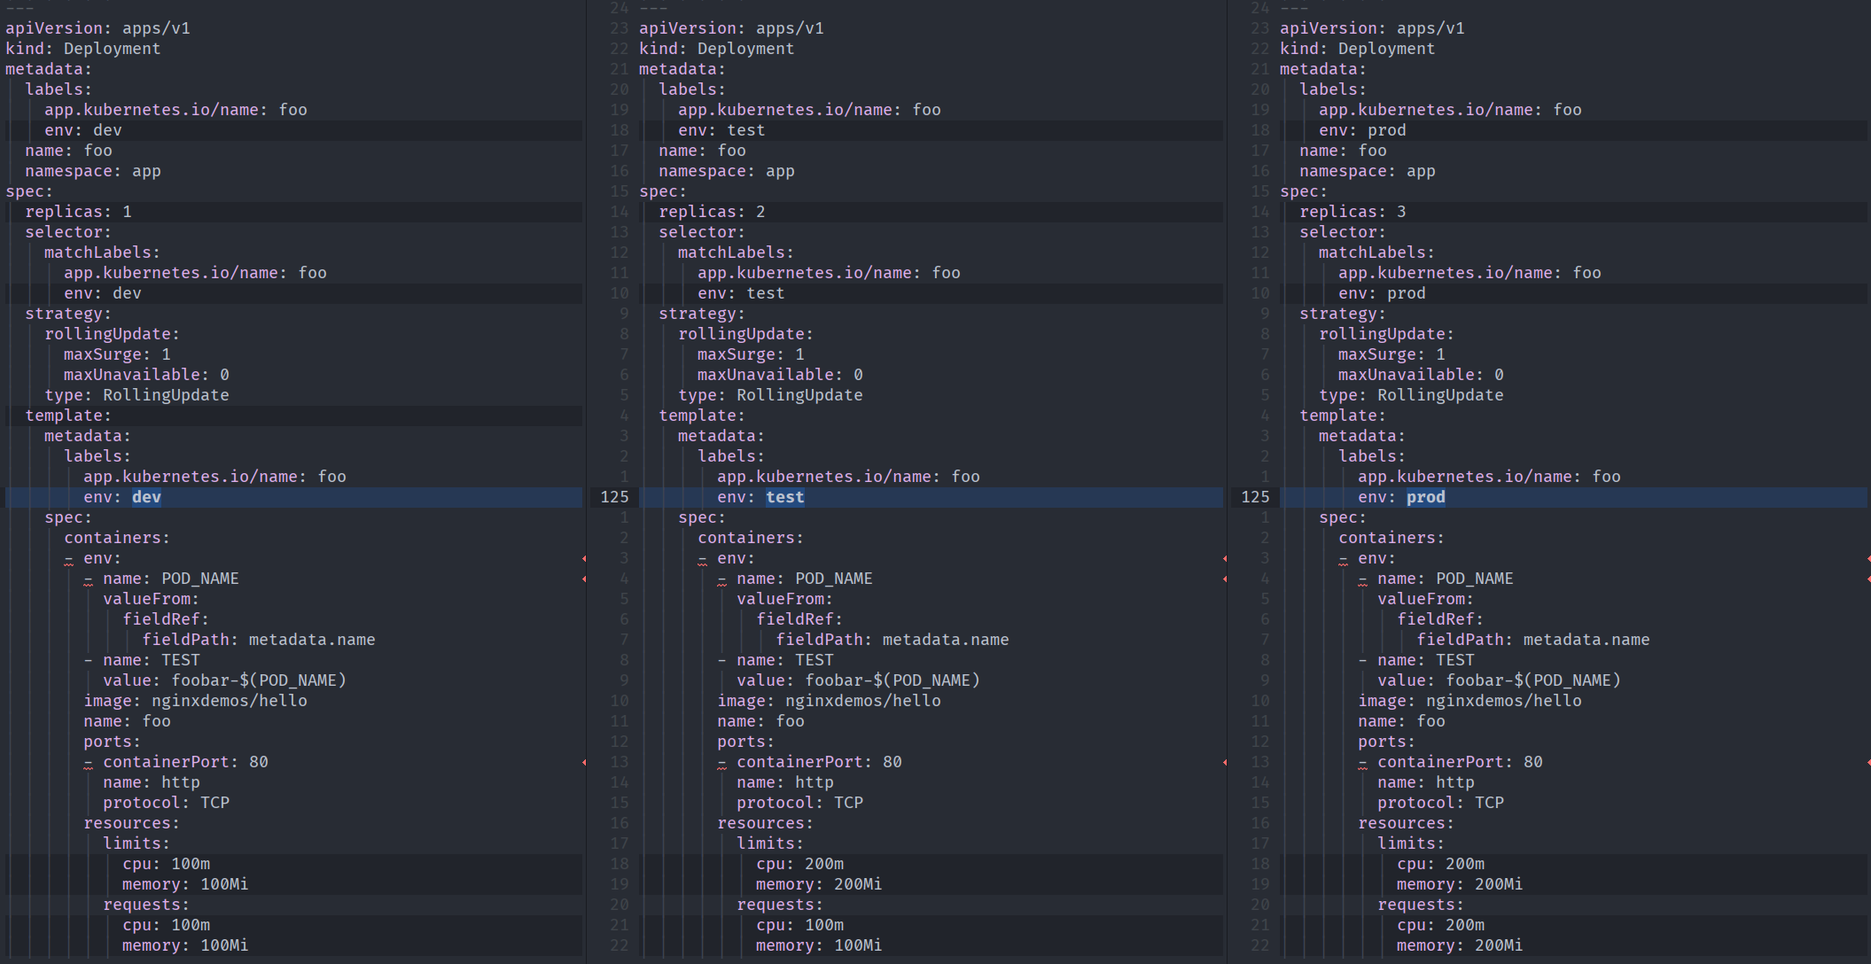
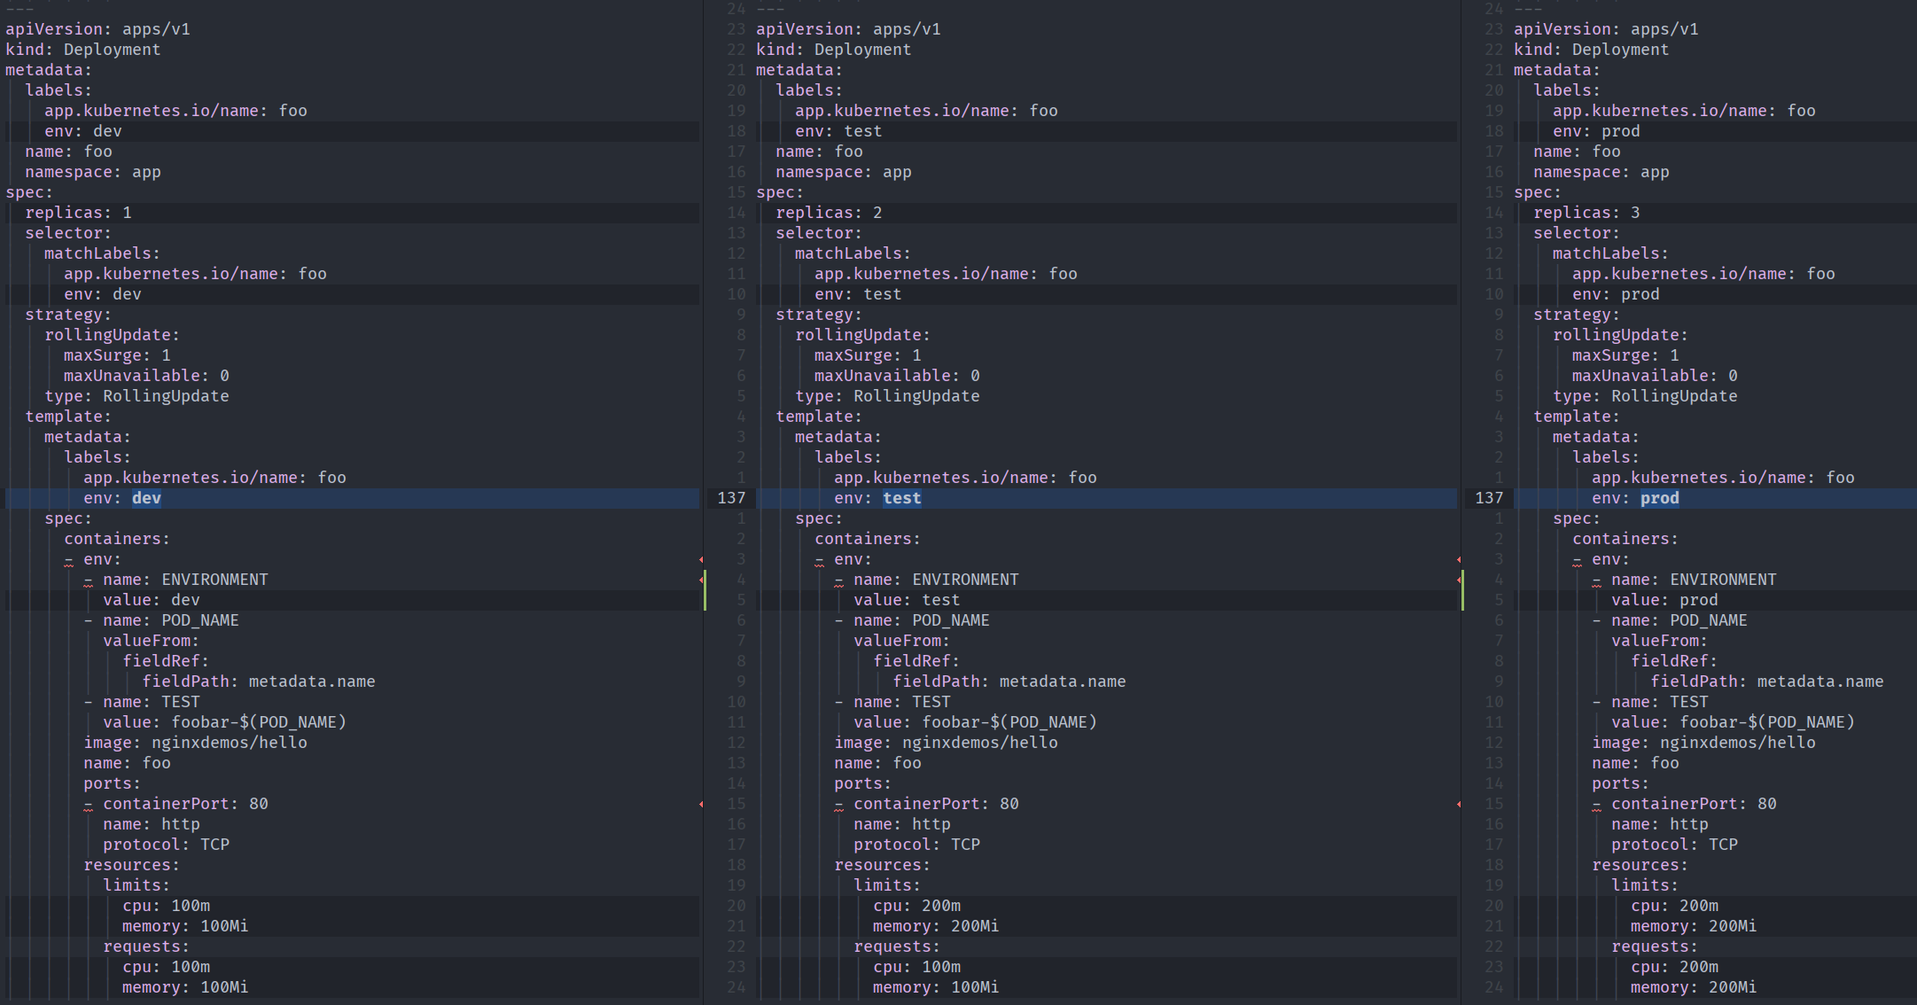
updates

Changed region(s): [[0.0, 0.0, 1.0, 1.0]]

diff --git a/content/blog/kustomize/index.md b/content/blog/kustomize/index.md
@@ -2,12 +2,15 @@
 title: Kustomize
 type: posts
 draft: true
-date: 2021-10-12
+date: 2021-11-01
 tags:
   - cloud
   - Kubernetes
   - devops
+  - deployments
 resources:
+  - name: head
+    src: head.png
   - name: folder-structure
     src: folder-structure.png
     title: Top level folder layout
@@ -34,9 +37,11 @@ resources:
     title: Username for stg and prod
 ---
 
-An introduction to [Kustomize](https://kustomize.io/) and why I it could change the way you deploy your workloads to Kubernetes.
+While my early days working with [Kustomize](https://kustomize.io/) I was missing some condensed practical hands-on how to build deployments with Kustomize and how to achieve common requirements in a multi cluster setup. In this blog post I want to fill this gap and give you a somehow holistic overview about Kustomize.
 
 <!--more-->
+
+{{< img name=head lazy=false description=false >}}
 
 {{< toc >}}
 
@@ -44,24 +49,29 @@ An introduction to [Kustomize](https://kustomize.io/) and why I it could change 
 
 > Kubernetes native configuration management
 
-With Kustomize you can define your Kubernetes deployments for various environments with different parameters without learning a new templating language nor a DSL. Kustomize works with standard Kubernetes resources and applies different parameters for different environments via a so called overlay. More on this when we have a closer look at Kustomize.
+With Kustomize you can define your Kubernetes deployments[^1] for various environments with different parameters without learning a new templating language nor a DSL. Kustomize works with standard Kubernetes resources[^2] and applies different parameters for different environments via a so called overlay. More on this when we have a closer look at Kustomize.
 
 Kustomize is included in `kubectl` and also [available](https://kubectl.docs.kubernetes.io/installation/kustomize/) as standalone application for all major platforms.
 
 ## What does Kustomize solve?
 
-An common scenario for teams deploying to Kubernetes is a multi cluster setup for different environments. For instance, you could have develop, test, and production environments and for each of it a dedicated Kubernetes cluster is running. You need to deploy your applications to each Kubernetes cluster in order to perform the required tasks like testing or QA and of course running production load. Of course, the deployments are not the same on each cluster because the requirements can be different. On the production cluster you probably require more resources in order to sustain availability under heavy load in contrast to develop where only a few developers check there work.
+Generally spoken, Kustomize is a tool that supports you in declaratively writing Kubernetes manifests[^3]. You might ask what is the difference to a simple `kubectl apply -f /path/to/yaml/dir`?
+
+Think about the common scenario of teams deploying to Kubernetes in a multi cluster setup for different environments[^4]. For instance, you could have `develop`, `test`, and `production` environments and for each of it a dedicated Kubernetes cluster is running. You need to deploy your applications to each Kubernetes cluster in order to perform the required tasks like testing or QA and of course running production load. The deployments are not equal on each cluster because the requirements can be different. On the production cluster you probably require more resources in order to sustain availability under heavy load in contrast to develop where only a few developers work with.
 
 A **naive** approach might look like this:
+
 {{< mermaid class="text-center">}}
 graph TD
 A[Manifests for dev] -->|deploy| D(Develop Kubernetes)
 B[Manifests for test] -->|deploy| E(Test Kubernetes)
 C[Manifests for prod] -->|deploy| F(Production Kubernetes)
 {{< /mermaid >}}
-You define your Kubernetes manifests for each environment with their specific parameters and apply them to the cluster. This leads to a lot of **redundant** code and decreases the **maintainability** because you have to touch each environment in case of a non environment specific change.
+
+You define your Kubernetes manifests for each environment with their specific parameters and apply them to the cluster. This leads to a lot of **redundant** code and decreases the **maintainability** because you have to touch each environment in case of a common change that affects all environments.
 
 In order to reduce code redundancy and increase maintainability we want to achieve an approach like this:
+
 {{< mermaid class="text-center" >}}
 graph TD
 A[Manifests] -->|custom deploy| D(Develop Kubernetes)
@@ -69,35 +79,35 @@ A -->|custom deploy| E(Test Kubernetes)
 A -->|custom deploy| F(Production Kubernetes)
 {{< /mermaid >}}
 
-We want to define "common" Kubernetes manifests for all environments that are **k**ustomized for each environment. Let Kustomize enter the stage!
+We want to define common Kubernetes manifests for all environments that are **k**ustomized for each environment.
 
 ## Kustomize in action
 
-Kustomize introduces the `base` and `overlay` concept. The base includes all Kubernetes manifests that are common for all environments and tend to be very static meaning they do not change often if any. The overlay includes manifests for a specific environment and alter some values of the base.
+Kustomize introduces the `base` and `overlay` concept. The base includes all Kubernetes manifests that are common for all environments and tend to be very static as they do not change often if any. The overlay includes manifests for a specific environment and alters or adds specific values of the base.
 
-A common practice for writing Kustomize deployments is a clear folder structure that separates base and overlay manifests that contains the actual environments:
+A common practice for writing Kustomize deployments is a clear folder structure that separates base and overlay manifests as shown in the following image:
 
 {{< img name=folder-structure lazy=true size=tiny >}}
 
 {{< hint info >}}
-You can omit the overlay folder if you prefer a more flat layout
+You can omit the overlay folder if you prefer a more flat layout. Basically, you can organize your manifests as you like but I recommend to keep it simple and uniform.
 {{< /hint >}}
 
 ### Basic example
 
 This example illustrates the simple overlay mechanism of Kustomize to write Kubernetes manifests for different environments. Kustomize generates/build the manifests to be applied before they are transmitted to the Kubernetes controller.
 
-The Syntax is as follows:
+The generated manifests are printed out and can be redirected to a file.
 
 ```sh
 kustomize build /path/to/folder [> manifests.yaml]
 ```
 
-The generated manifests are printed out and can be redirected to a file.
-
 {{< hint warning >}}
 The following snippet will apply resources! Use the former command for just generating the resources
 {{< /hint >}}
+
+And if you want to use the built in Kustomize flag of kubectl:
 
 ```sh
 kubectl apply -k /path/to/folder
@@ -112,12 +122,13 @@ Now lets think about the following scenario:
 - three environments (dev, test, prod)
 - two applications named foo and bar
 
-We should write deployment manifests that satisfies the following requirements:
+We should write deployment manifests that satisfy the following requirements:
 
 - both applications should be deployed to each environment
 - resource labeling must match the environment
 - scale the applications per environment
 - allocate resources to the applications per environment
+- inject ENV variables into pods per environemnt
 
 {{< hint info >}}
 You can find the code at my [Github](https://github.com/Allaman/kustomize-demo/tree/main/basic)
@@ -151,7 +162,7 @@ The **overlay** folder contains the modifications we want for each environment. 
 At the beginning this is a bit awkward and you probably will often forget to add a `kustomization.yaml` but you will get used to it.
 {{< /hint >}}
 
-The first kustomization.yaml defines the list of resources to be applied to the according environment. Note that you can define folders as well. Furthermore we define an additional common label specific to the environment (`env`) that will be merged to the labels from definend in the base resources.
+The first kustomization.yaml defines the list of resources to be applied to the according environment. Note that you can define folders as well. Furthermore we define an additional common label specific to the environment (`env`) that will be merged to the labels from the already defined ones in the base resources.
 
 `overlay/dev/kustomization.yaml`:
 
@@ -183,24 +194,23 @@ patchesStrategicMerge:
 
 In this example we use a [patchesStrategicMerge](https://kubectl.docs.kubernetes.io/references/kustomize/glossary/#patchstrategicmerge) which will use the provided `deployment.yaml` and patch the provided values to the deployment resource defined in `base`.
 
-{{< hint info >}}
-You must provide the names of resources (here `metadata.name` and `containers.name`) so that can identify the resources from base that needs to be patched.
-{{< /hint >}}
-
-`overlay/dev/bar/deployment.yaml`:
+`overlay/dev/foo/deployment.yaml`:
 
 ```yaml
 ---
 apiVersion: apps/v1
 kind: Deployment
 metadata:
-  name: bar
+  name: foo
 spec:
   replicas: 1
   template:
     spec:
       containers:
-        - name: bar
+        - name: foo
+          env:
+            - name: ENVIRONMENT
+              value: dev
           resources:
             requests:
               memory: "100Mi"
@@ -210,9 +220,13 @@ spec:
               cpu: "100m"
 ```
 
-This patch will add `spec.replicas` and `spec.template.spec.containers[0].resources` to the deployment resource from the base. As we provide such a patch for each environment we can adjust our deployment for each of them.
+{{< hint info >}}
+You must provide the names of resources (here `metadata.name` and `containers.name`) so that Kustomize can identify the resources from the base that are targeted by the patch.
+{{< /hint >}}
 
-Here you can see a diff for the deployment manifests generated by Kustomize for each environment. As intended each environment is **k**ustomized with its own values.
+This patch will add `spec.replicas`, `spec.template.spec.containers[0].resources`, and `spec.template.spec.containers[0].env` to the deployment resource from the base. As we provide such a patch for each environment we can adjust our deployment for each of them.
+
+Here you can see a diff for the deployment resources generated by Kustomize for each environment. As intended each environment is **k**ustomized with its own values.
 
 {{< img name=basic-diff lazy=true >}}
 
@@ -272,9 +286,9 @@ labels:
     includeSelectors: true
 ```
 
-This simple demo illustrated a very common use case in today's deployments and how to solve it with Kustomize. By providing a set of base resources we can reduce the amount of redundant manifests. By applying patches via Kustomize we can modify only the resources' values we need. By following a clean folder structure (see [layering](/blog/kustomize#layering) for more details) it is intuitive and straight forward to understand and maintain the Kubernetes manifests.
+By providing a set of base resources we can reduce the amount of redundant manifests. By applying patches via Kustomize we can modify only the resources' values we need. By following a clean folder structure (see [layering](/blog/kustomize#layering) for more details) it is intuitive and straight forward to understand and maintain your Kubernetes manifests.
 
-### Layering
+### Resource layout
 
 {{< hint info >}}
 [Source code](https://github.com/Allaman/kustomize-demo/tree/main/layering) for the demo
@@ -282,11 +296,11 @@ This simple demo illustrated a very common use case in today's deployments and h
 Only dummy Kubernetes manifests for demonstration
 {{< /hint >}}
 
-Kustomize works on different layers (I call it that way) allowing you to organize your deployments and create a logical structure. Let us think about a more complex deployment scenario.
+Kustomize works on different levels allowing you to organize your deployments and create a logical structure. Let us think about a more complex deployment scenario.
 
 **Basic conditions**
 
-- two dedicated clusters for a stg and a prod environment
+- two dedicated clusters for a staging(stg) and a production(prod) environment
 - a frontend consisting of an UI component and a BFF (backend for frontend) component
 - a backend consisting of an engine component, an administration component and **several** scraper components
 - a debugging service that is only required to deploy on stg
@@ -297,11 +311,11 @@ With Kustomize you can organize your deployments in folders and sub folders in a
 
 {{< img name=layering-folder lazy=true size=small >}}
 
-You can see that we organized our applications in `backend` and `frontend` folders. Of course, each folder requires a `kustomization.yaml`. Furthermore you can see that the `debug` application only exists in stg and not in base because we did not require it for the production environment. If you think that there might be a chance that the debug component needs to be deployed to prod as well you can define it in the base as well but only refer to it from staging.
+You can see that we organized our applications in `backend` and `frontend` folders. Of course, each folder requires a `kustomization.yaml`. Furthermore you can see that the `debug` application only exists in stg and not in base because of the requirements. If you think that there might be a chance that the debug component needs to be deployed to prod as well you can define it in the base as well but only refer to it from staging.
 
 #### Labels
 
-Labels are merged the path that Kustomize traverses and you can include new labels in each `kustomization.yaml` (if necessary).
+Labels are merged through the path that Kustomize traverses and you can include new labels in each `kustomization.yaml` (if necessary).
 
 {{< mermaid class="text-center" >}}
 graph TD
@@ -310,7 +324,7 @@ B --> C[overlay/prod/backend/editor/kustomization.yaml]
 C --> D[base/backend/editor/kustomization.yaml]
 {{< /mermaid >}}
 
-The labels after Kustomize has built the manifest:
+The labels after Kustomize has built the manifest are as follows:
 
 ```yaml
 labels:
@@ -319,13 +333,17 @@ labels:
   env: prod # from prod/kustomization.yaml
 ```
 
-#### Multiple Deployments from one base
+#### Multiple deployments from one base
 
 In Production we want to deploy multiple scraper applications that might run just in a slightly different configuration (for instance a different environment variable). With Kustomize we can still define the common resources for the scraper in our base folder but create multiple deployments in the overlay.
 
 {{< img name=backend-structure lazy=true size=tiny >}}
 
 How does this work and how does this not lead to naming collisions of resources?
+
+Kustomize has a feature `nameSuffix` (and `namePrefix`) that modifies all resources' names accordingly:
+
+`layering/overlay/prod/backend/scraper-bar/kustomization.yaml`
 
 ```yaml
 ---
@@ -338,9 +356,7 @@ resources:
   - ../../../../base/backend/scraper
 ```
 
-Kustomize has a feature `nameSuffix` (and `namePrefix`) that modifies all resources' names accordingly.
-
-Although in base we defined `metadata.name: scraper` with the suffix Kustomize generates manifests with a new name allowing us to deploy multiple scraper applications while only maintaining one common base.
+Although in base we defined `metadata.name: scraper` Kustomize generates manifests with a new name allowing us to deploy multiple scraper applications while only maintaining one common base.
 
 ```yaml
 ---
@@ -356,24 +372,50 @@ metadata:
   namespace: team1
 ```
 
-### More patches
+### More kustomization
 
-Kustomize supports more advanced mechanisms besides patchesStrategicMerge strat
+Kustomize supports more advanced mechanisms besides `patchesStrategicMerge`.
 {{< hint info >}}
 You can find the code at my [Github](https://github.com/Allaman/kustomize-demo/tree/main/advanced)
 {{< /hint >}}
 
 #### patches
 
+This example demonstrates how to path (replace) a single value, in this case the host of an ingress resource.
+
 {{< img name=host-example lazy=true >}}
 
 #### patchesJson6902
 
+This example changes the username of a Grafana notification channel per environment:
+
 {{< img name=notification-example lazy=true >}}
+
+You can patch multiple values and use a JSON format. Different values for `op` like delete are available.
+
+```json
+[
+  {
+    "op": "add",
+    "path": "/spec/template/spec/containers/0/args/-",
+    "value": "--override"
+  },
+  {
+    "op": "add",
+    "path": "/spec/template/spec/containers/0/args/-",
+    "value": "default.replication.factor=3"
+  },
+  {
+    "op": "add",
+    "path": "/spec/template/spec/containers/0/args/-",
+    "value": "--override"
+  }
+]
+```
 
 ### CD integration
 
-CD integration is available for common GitOps like [Flux](https://github.com/fluxcd/flux) and [ArgoCD](https://github.com/argoproj/argo-cd).
+CD integration is available for common GitOps tools like [Flux](https://github.com/fluxcd/flux) and [ArgoCD](https://github.com/argoproj/argo-cd).
 Due to its simplicity it is likely that you can integrate Kustomize in your workflow as well. This is the most basic command to apply your manifests:
 
 ```sh
@@ -382,22 +424,24 @@ kustomize build overlay/prod | kubectl apply -f -
 
 Keep in mind that this approach does not do a garbage collection of resources like Flux does.
 
-## Kustomize best practice
+## Kustomize best practices
 
 {{< hint info >}}
 These things worked for me but keep in mind that your mileage might differ.
 {{< /hint >}}
 
-1. Naming convention.
-2. Resources per file
-3. Think about your labels
-4. Think about your base
-5. Prefix your commit messages
+1. Naming conventions of files and resources
+2. One kind of resources per yaml file
+3. Think about your labels ([recommended labels](https://kubernetes.io/docs/concepts/overview/working-with-objects/common-labels/))
+4. Think about your folder structure and keep it simple and uniform across projects/teams
+5. Prefix your commit messages to distinguish commits for specific environments
+6. Think about your base. In doubt move code to the overlay to reduce impact on your production environment
+7. Implement a pipeline that verifies your manifests
 
 ## Kustomize vs Helm
 
 {{< hint warning >}}
-Never blindly follow a tool recommendation but analyze the specific requirements in your environment and choose the best tool for your
+Never blindly follow a tool recommendation but analyze the specific requirements in your environment and choose the best tool for the job!
 {{< /hint >}}
 
 ### What is Helm
@@ -410,13 +454,50 @@ Helm is one of the old players in the Kubernetes ecosystem. Meanwhile the curren
 
 Basically, Helm is used to define and distribute deployments for Kubernetes.
 
+The main difference to Kustomize is the templating language of Helm.
+
+### Comparison
+
+{{< hint warning >}}
+This section reflects my point of view!
+{{< /hint >}}
+
+| Kustomize                                                                    | Helm                                      |
+| ---------------------------------------------------------------------------- | ----------------------------------------- |
+| Part of kubectl 👍                                                           | Often used by third party deployments 👍  |
+| Is built upon standard Kubernetes manifests 👍                               | Supports Release(bundles) 👍              |
+| Different environments are configured by using "overlays" 👍                 | Templating 👍👎                           |
+| No templating / no templating language (thumbs up) (thumbs down) 👍 👎       | not very intuitiv / maintainable 👎       |
+| Easy to write and read 👍                                                    | Complexity 👎                             |
+| Flexible and customizable 👍                                                 | Error prune 👎                            |
+| Difficult to bundle different resources 👎                                   | Actual resources needs to be templated 👎 |
+| Actual resources needs to "calculated" by far not as complex as with Helm 👎 |                                           |
+| Not so DRY 👎                                                                |                                           |
+
+### When to use Kustomize over Helm
+
+{{< hint info >}}
+As with each generalizations keep your specific settings in mind!
+{{< /hint >}}
+
+- You want to deploy to different environments
+- You want to deploy self developed microservices that are loosely coupled to each other with respect to their deployment dependencies
+- You don't want to distribute your application with external parties
+- You don't need to bundle your application in releases
+- Your deployment does not require complex configuration with loops and Conditional Clauses
+- You want to keep things simple :wink:
+
 ## Downsides of Kustomize
 
-There are some aspects to consider:
+There are some aspects to consider when working with Kustomize:
 
-- **boiler plate**: For more complex deployments you will write a lot of kustomization.yaml.
-- **redundancy**: As shown, Kustomize reduces the redundancy of code. But there is still some redundancy. For instance in the basic example your have to write the deployment files to be patched three times with only minimal differences.
+- **boiler plate**: For more complex deployments you will write a lot of kustomization.yaml and `version`, `kind`, `name`, etc. fields
+- **redundancy**: There is still some redundancy. For instance in the basic example you have to write the deployment files to be patched three times with only minimal differences.
 - **loose coupling**: components defined with Kustomize are only loosely coupled and dependencies between components are not easy to declare.
-- **Limited "language"**: Kustomize, unlike Helm, is not a templating language and therefore does not include templating features like loops or control flows. For some resource missing templating features like loops result in much repetitive writing. Think about many ingress rules for example.
+- **Limited "language"**: Kustomize, unlike Helm, does not include a templating language and therefore does not offer templating features like loops or control flows.
+- **distribution**: Distributing your applications is not as straightforward as with Helm.
 
-## Glossary
+[^1]: **deployment**: general term for all stuff you want to deploy/install/run in Kubernetes
+[^2]: **resources**: Kubernetes objects like a `configmap`, `secret`, `statefulset`, etc.
+[^3]: **manifest**: Kubernetes yaml files that define Kubernetes objects/resources.
+[^4]: **environment**: dedicated IT systems for certain steps in the life cycle. For instance a staging system for QA.
